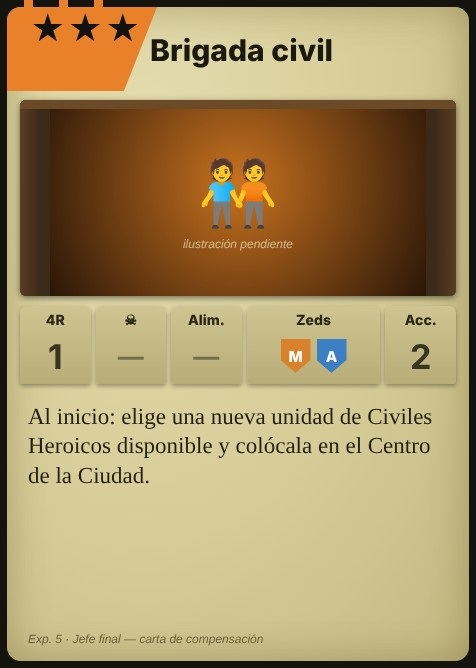
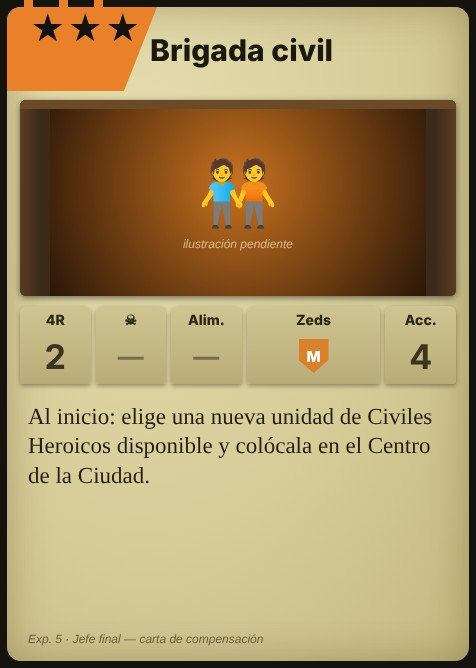
Exp. 5: columnas de las cartas de compensación en su valor más favorable (4 Acciones, 4R 2, una ruta de Zeds); BUILD_TIME, CHANGELOG y caché v76
Claude-Session: https://claude.ai/code/session_01KmRiLbWWzhUthpc2eQKnLk

Changed region(s): [[0.5882, 0.479, 0.7353, 0.5689], [0.8529, 0.509, 0.9118, 0.5689], [0.0882, 0.509, 0.1471, 0.5689]]

diff --git a/js/events.js b/js/events.js
@@ -108,12 +108,12 @@ ev('no_escapatoria', 'No hay escapatoria', 'r', 3, 0, 'B', 'd', ['A','F','T','T'
 ev('conductos', 'Conexión por los conductos del vapor', 'r', 3, 1, 'B', 0, ['A','A','B','B'], 3, ['Al inicio de esta fase. Por cada unidad Zed en un espacio de Cripta, tira 1 dado: 1-2 = intenta entrar en la Central Nuclear; 3-5 = intenta entrar en la Granja (primero tira en la tabla de Cripta); 6 = no pasa nada. Si no hay sitio, se queda donde está.'], { vents: 1 });
 ev('caos_control', 'El caos se extiende sin control', 'r', 3, 1, 0, 0, ['M','T','A'], 2, ['Cada espacio con nombre que pase a estar controlado por Zeds este turno recibe 2 fichas de Caos (en lugar de 1). Solo puedes retirar 1 ficha por turno, como es habitual, durante la fase de Mantenimiento (ver sección 7.2).'], { chaos2: 1 });
 ev('fin_r', 'Por fin ha terminado la larga pesadilla', 'r', 5, 0, 'B', 2, ['*','*'], 0, ['¡Habéis ganado!', 'Ninguno de los supervivientes volverá a ser el mismo…'], { fin: 1 });
-/* ---- EXPANSIÓN 5 · Jefe final (la Banda de Bubba): cartas de compensación. Se barajan como cartas de Nivel IV (naranjas) y solo entran con la Exp. 5. ---- */
-ev('boss_heroe', 'Refuerzos: llega un Héroe', 'o', 2, 1, 0, 0, ['A','T'], 2, ['Al inicio: elige un nuevo Héroe disponible y colócalo en el Centro de la Ciudad o en cualquier espacio Inicial.'], { exp: 5, fase: 'a' });
-ev('boss_cargamento', 'Cargamento aéreo', 'o', 2, 1, 0, 0, ['B','T'], 2, ['Al inicio: +5 de Munición y +5 de Suministros.'], { exp: 5, fase: 'a' });
-ev('boss_brigada', 'Brigada civil', 'o', 3, 1, 0, 0, ['M','A'], 2, ['Al inicio: elige una nueva unidad de Civiles Heroicos disponible y colócala en el Centro de la Ciudad.'], { exp: 5, fase: 'a' });
-ev('boss_medico', 'Puesto médico de campaña', 'o', 3, 1, 0, 0, ['F','T'], 2, ['Al inicio: retira todas las fichas de Impacto a todas las unidades de jugador en juego (en cualquier espacio) y recuperan su cara de Fuerza completa. −2 de Infección.'], { exp: 5, fase: 'a' });
-ev('boss_adrenalina', 'Adrenalina colectiva', 'o', 4, 1, 0, 0, ['A','F'], 2, ['Al inicio: cada Héroe y cada Civil Heroico en juego recibe 1 Acción gratis este turno.'], { exp: 5, fase: 'a' });
+/* ---- EXPANSIÓN 5 · Jefe final (la Banda de Bubba): cartas de compensación. Se barajan como cartas de Nivel IV (naranjas) y solo entran con la Exp. 5. Columnas en su valor más favorable: 4R 2 (máximo de las cartas), sin tirada de Infección ni de Alimentación, 1 sola ruta de Zeds y 4 Acciones de Evento (el máximo del medidor). ---- */
+ev('boss_heroe', 'Refuerzos: llega un Héroe', 'o', 2, 2, 0, 0, ['T'], 4, ['Al inicio: elige un nuevo Héroe disponible y colócalo en el Centro de la Ciudad o en cualquier espacio Inicial.'], { exp: 5, fase: 'a' });
+ev('boss_cargamento', 'Cargamento aéreo', 'o', 2, 2, 0, 0, ['B'], 4, ['Al inicio: +5 de Munición y +5 de Suministros.'], { exp: 5, fase: 'a' });
+ev('boss_brigada', 'Brigada civil', 'o', 3, 2, 0, 0, ['M'], 4, ['Al inicio: elige una nueva unidad de Civiles Heroicos disponible y colócala en el Centro de la Ciudad.'], { exp: 5, fase: 'a' });
+ev('boss_medico', 'Puesto médico de campaña', 'o', 3, 2, 0, 0, ['F'], 4, ['Al inicio: retira todas las fichas de Impacto a todas las unidades de jugador en juego (en cualquier espacio) y recuperan su cara de Fuerza completa. −2 de Infección.'], { exp: 5, fase: 'a' });
+ev('boss_adrenalina', 'Adrenalina colectiva', 'o', 4, 2, 0, 0, ['A'], 4, ['Al inicio: cada Héroe y cada Civil Heroico en juego recibe 1 Acción gratis este turno.'], { exp: 5, fase: 'a' });
 /* Las cartas del Jugador Zed y el texto «En Versus» de «¡Aquí está el Doctor!» (Dr. Marteuse) son solo del modo Versus (no incluido); el efecto en solitario de esa carta sí está. */
 
 /* orden estable de nombres de archivo de imagen = id */

diff --git a/sw.js b/sw.js
@@ -1,7 +1,7 @@
 /* Service worker: permite instalar la web como app y jugar sin conexión.
    Código (html/js/css): red primero, con copia local de reserva. Imágenes y audio: caché primero. */
 'use strict';
-const CACHE = 'doz3-v75';
+const CACHE = 'doz3-v76';
 const SHELL = ['./', 'index.html', 'style.css', 'manifest.webmanifest', 'icons/icon-192.png', 'icons/icon-512.png', 'assets/portada.jpg', 'assets/fondo_nueva.webp', 'assets/fondo_ranking.webp',
   'js/version.js', 'js/data.js', 'js/events.js', 'js/dest.js', 'js/evlog.js', 'js/preview.js', 'js/obituario.js', 'js/engine.js', 'js/game.js', 'js/phases.js', 'js/actions.js', 'js/cardtext.js', 'js/ui.js', 'js/anim.js',
   'js/expansions.js', 'js/expansions2.js', 'js/jefe.js', 'js/sfx.js', 'js/sound.js', 'js/opciones.js', 'js/voz.js', 'js/ost.js', 'assets/sonidos/letras/letras.js', 'assets/sonidos/efectos/sfx_disparo.mp3', 'assets/sonidos/efectos/sfx_disparo_largo.mp3', 'js/mapzoom.js', 'js/movil.js', 'js/seedcode.js', 'js/save.js', 'js/main.js', 'js/bot.js'];

diff --git a/js/version.js b/js/version.js
@@ -1,2 +1,2 @@
 /* Fecha y hora de la última build (hora de Madrid). Se actualiza con cada cambio publicado. */
-const BUILD_TIME = '2026-11-10 13:48';
+const BUILD_TIME = '2026-11-10 13:49';

diff --git a/CHANGELOG.md b/CHANGELOG.md
@@ -2,6 +2,11 @@
 
 Registro de cambios por publicación (push a `main`). Lo más reciente, arriba. Cada entrada lleva la misma fecha y hora que `BUILD_TIME` de `js/version.js`.
 
+## 2026-11-10 13:49
+
+### Cambios
+- **Exp. 5, cartas de compensación:** las columnas de las 5 cartas pasan a su valor más favorable: **4 Acciones de Evento** (el máximo del medidor), **4R 2** (el máximo de las cartas), **una sola ruta de Zeds** (Refuerzo de Héroe: Túnel · Cargamento: Bosque · Brigada: Montaña · Puesto médico: Afueras · Adrenalina: Autovía), sin tirada de Infección ni de Alimentación. Cartas regeneradas. Caché v76.
+
 ## 2026-11-10 13:48
 
 ### Cambios
